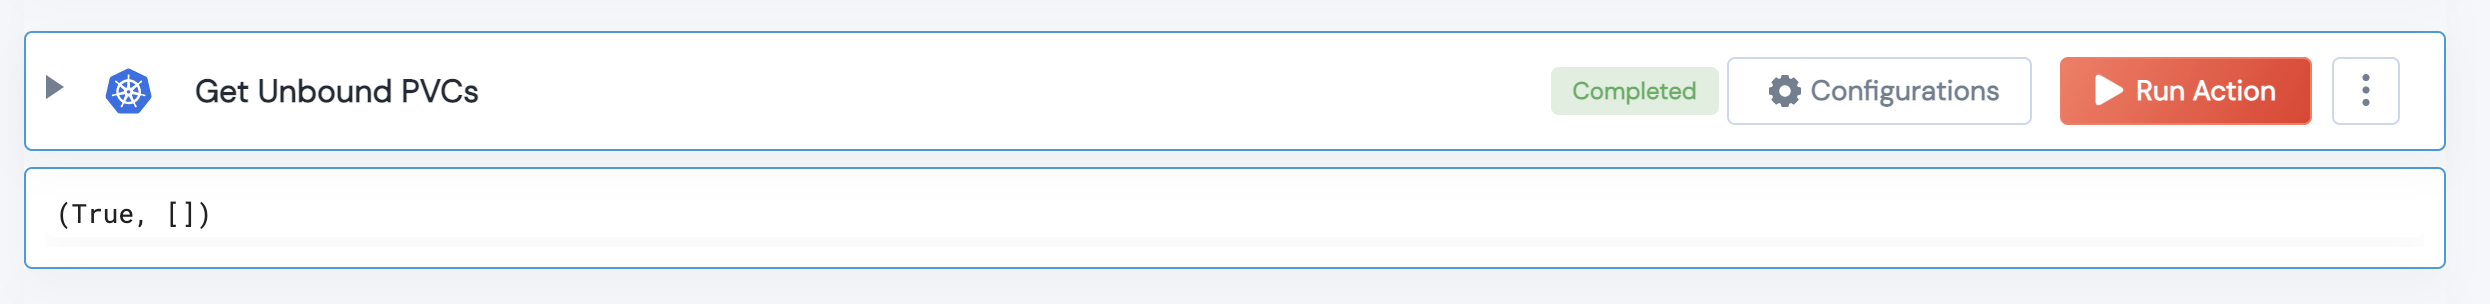
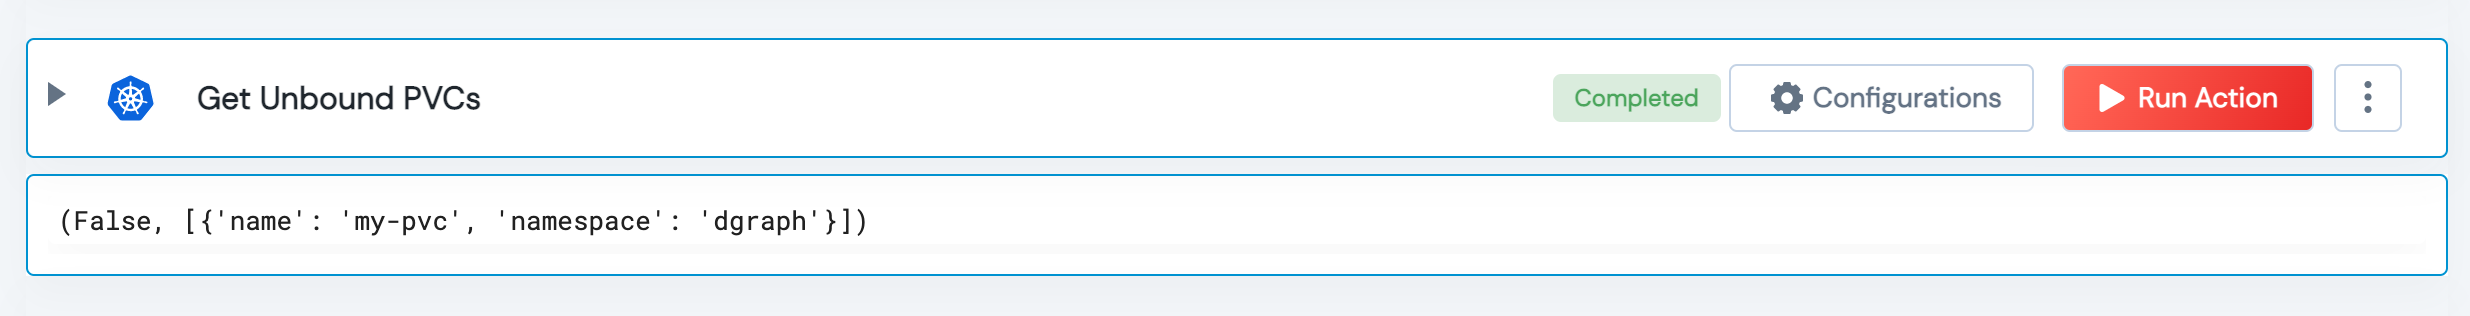
PR Comments

diff --git a/Kubernetes/legos/k8s_get_unbound_pvcs/k8s_get_unbound_pvcs.py b/Kubernetes/legos/k8s_get_unbound_pvcs/k8s_get_unbound_pvcs.py
@@ -9,7 +9,11 @@ from pydantic import BaseModel, Field
 
 
 class InputSchema(BaseModel):
-    pass
+    namespace: str = Field (
+        '',
+        description='K8S Namespace',
+        title="K8S Namespace"
+    )
 
 def k8s_get_unbound_pvcs_printer(output):
     if output is None:
@@ -17,11 +21,14 @@ def k8s_get_unbound_pvcs_printer(output):
     
     print(output)
 
-def k8s_get_unbound_pvcs(handle) -> Tuple:
+def k8s_get_unbound_pvcs(handle, namespace:str = '') -> Tuple:
     """k8s_get_unbound_pvcs This function all unbound PVCS and returns them back
 
        :type handle: Object
        :param handle: Object returned from the task.validate(...) function
+
+       :type namespace: str
+       :param namespace: Kubernetes Namespace 
 
        :rtype: Tuple Result in tuple format.  
     """
@@ -31,13 +38,35 @@ def k8s_get_unbound_pvcs(handle) -> Tuple:
     v1 = client.CoreV1Api(api_client=handle)
 
     # Get all PVCs in the cluster
-    pvc_list = v1.list_persistent_volume_claim_for_all_namespaces().items
+    if not namespace:
+        pvc_list = v1.list_persistent_volume_claim_for_all_namespaces().items
+        pod_list = v1.list_pod_for_all_namespaces().items
+    else:
+        pvc_list = v1.list_namespaced_persistent_volume_claim(namespace).items
+        pod_list = v1.list_namespaced_pod(namespace).items
+
     retval = []
+    matched_volume = {}
+    list_all_volumes = {}
     # Iterate through each PVC and check its status
     for pvc in pvc_list:
         # Check if the PVC is bound to a volume
-        if pvc.status.phase != "Bound":
-            retval.append(pvc)
+        for pod in pod_list:
+            found = False
+            for volume in pod.spec.volumes:
+                if volume.persistent_volume_claim != None:
+                    if volume.persistent_volume_claim.claim_name == pvc.metadata.name:
+                        found = True
+                        matched_volume[pvc.metadata.name] = pvc.metadata.namespace
+                        list_all_volumes[pvc.metadata.name] = pvc.metadata.namespace
+                        break
+                    else:
+                        list_all_volumes[pvc.metadata.name] = pvc.metadata.namespace
+    
+    if len(matched_volume) != len(list_all_volumes):
+       for k,v in list_all_volumes.items():
+           if k not in matched_volume.keys():
+               retval.append({'name': k, 'namespace': v})
 
     if retval:
         return (False, retval)
